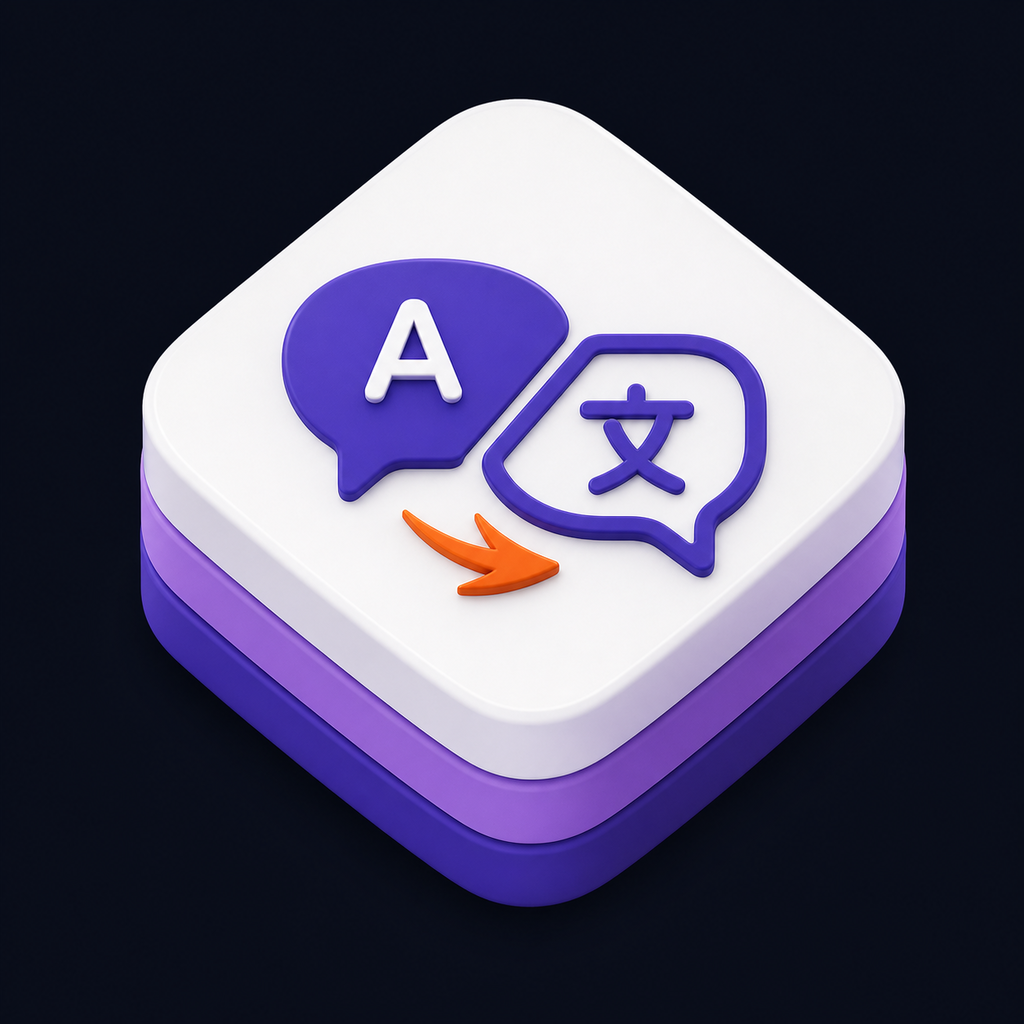
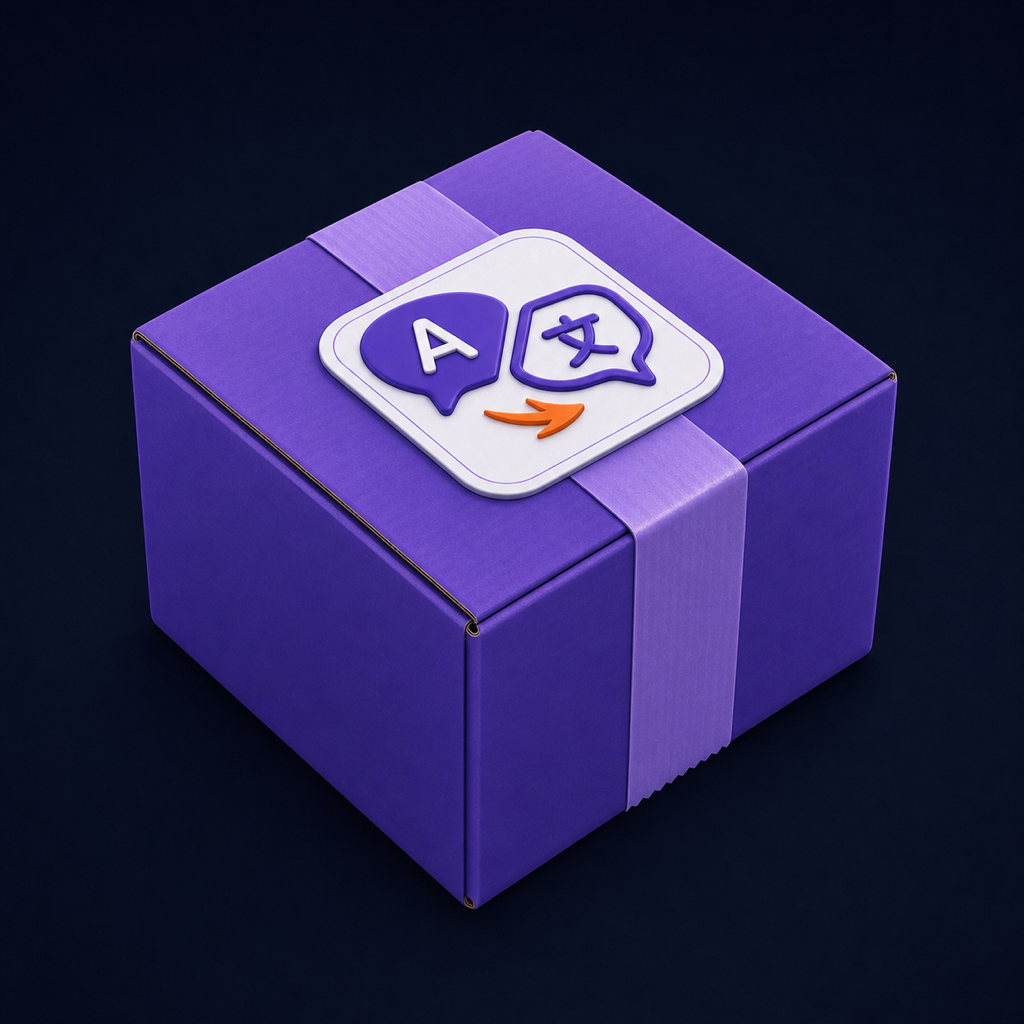
feat: clarify localization package purpose

diff --git a/README.md b/README.md
@@ -1,5 +1,5 @@
 <p align="center">
-  <img src="Documentation/Assets/SwiftLocalizedGenerator-Icon.png" alt="SwiftLocalizedGenerator translation icon" width="180">
+  <img src="Documentation/Assets/SwiftLocalizedGenerator-Icon.png" alt="SwiftLocalizedGenerator localization package icon" width="180">
 </p>
 
 # SwiftLocalizedGenerator
@@ -9,8 +9,10 @@
 [![CI](https://github.com/Harry-KNIGHT/SwiftLocalizedGenerator/actions/workflows/ci.yml/badge.svg)](https://github.com/Harry-KNIGHT/SwiftLocalizedGenerator/actions/workflows/ci.yml)
 [![License: MIT](https://img.shields.io/badge/License-MIT-blue.svg)](LICENSE)
 
-A tiny SwiftPM build-tool plugin that turns Apple String Catalogs into a public,
-type-safe `L10n` API at compile time.
+A SwiftPM build-tool plugin for creating shared localization modules. Attach it
+to the target that owns your Apple String Catalogs, and it generates a public,
+type-safe `L10n` API at compile time that apps and other Swift packages can
+import.
 
 ```swift
 Text(L10n.Onboarding.welcomeTitle)
@@ -24,9 +26,27 @@ format specifiers, or package-bundle lookup.
 
 ## Why
 
-String Catalogs already contain everything needed for a safe localization API.
-The missing piece is a lightweight way to make Apple's generated symbols public
-and pleasant to consume across Swift packages.
+Apple's String Catalogs already contain everything needed for a safe
+localization API, and Xcode can already generate the corresponding Swift
+symbols. Those symbols are not public, however, so a feature package cannot
+consume them just by importing the module that owns the catalogs.
+
+SwiftLocalizedGenerator fills that build-time gap. A dedicated localization
+module can own shared catalogs such as `Common.xcstrings`; the plugin publishes
+Apple's generated symbols under a public `L10n` namespace during compilation;
+and every app or feature package that depends on that localization module gets
+the same clean API:
+
+```swift
+import AppLocalization
+
+Button(L10n.Common.retry) {
+    reload()
+}
+```
+
+The generator itself remains build tooling. Consumer packages import your
+localization module, not a runtime SwiftLocalizedGenerator library.
 
 - **No runtime dependency** — only a build-tool plugin.
 - **No third-party parser** — Apple's tool remains the source of truth.